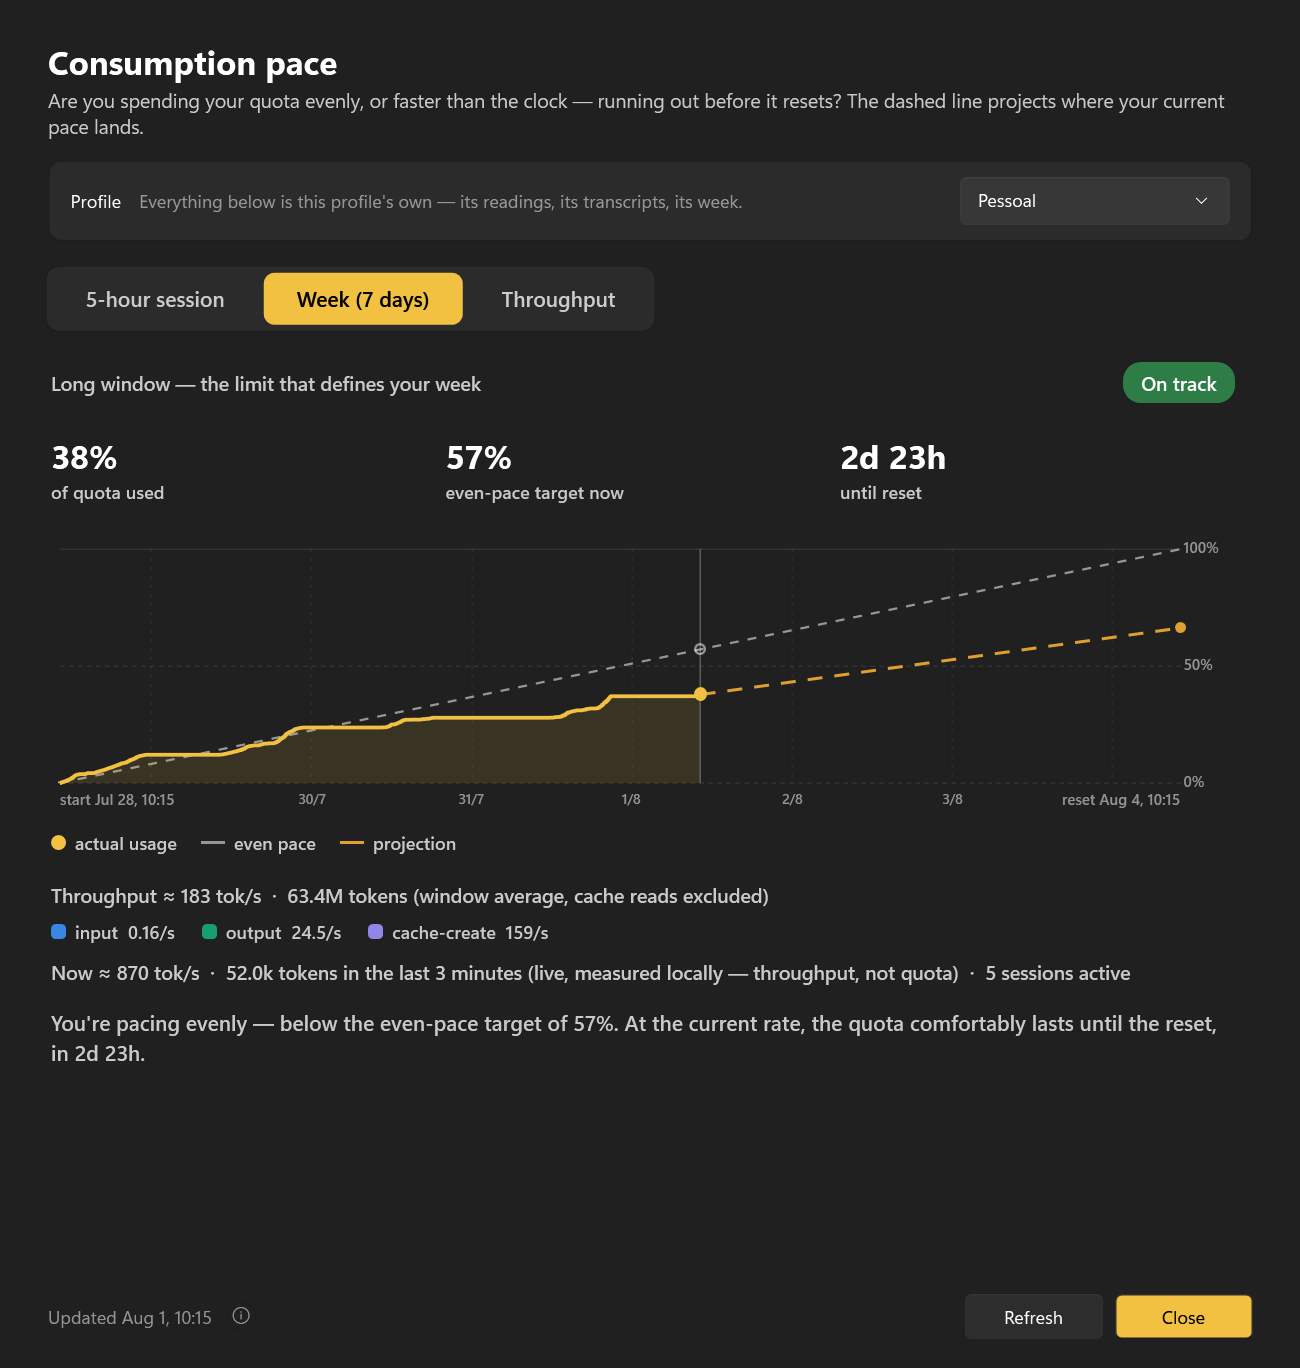
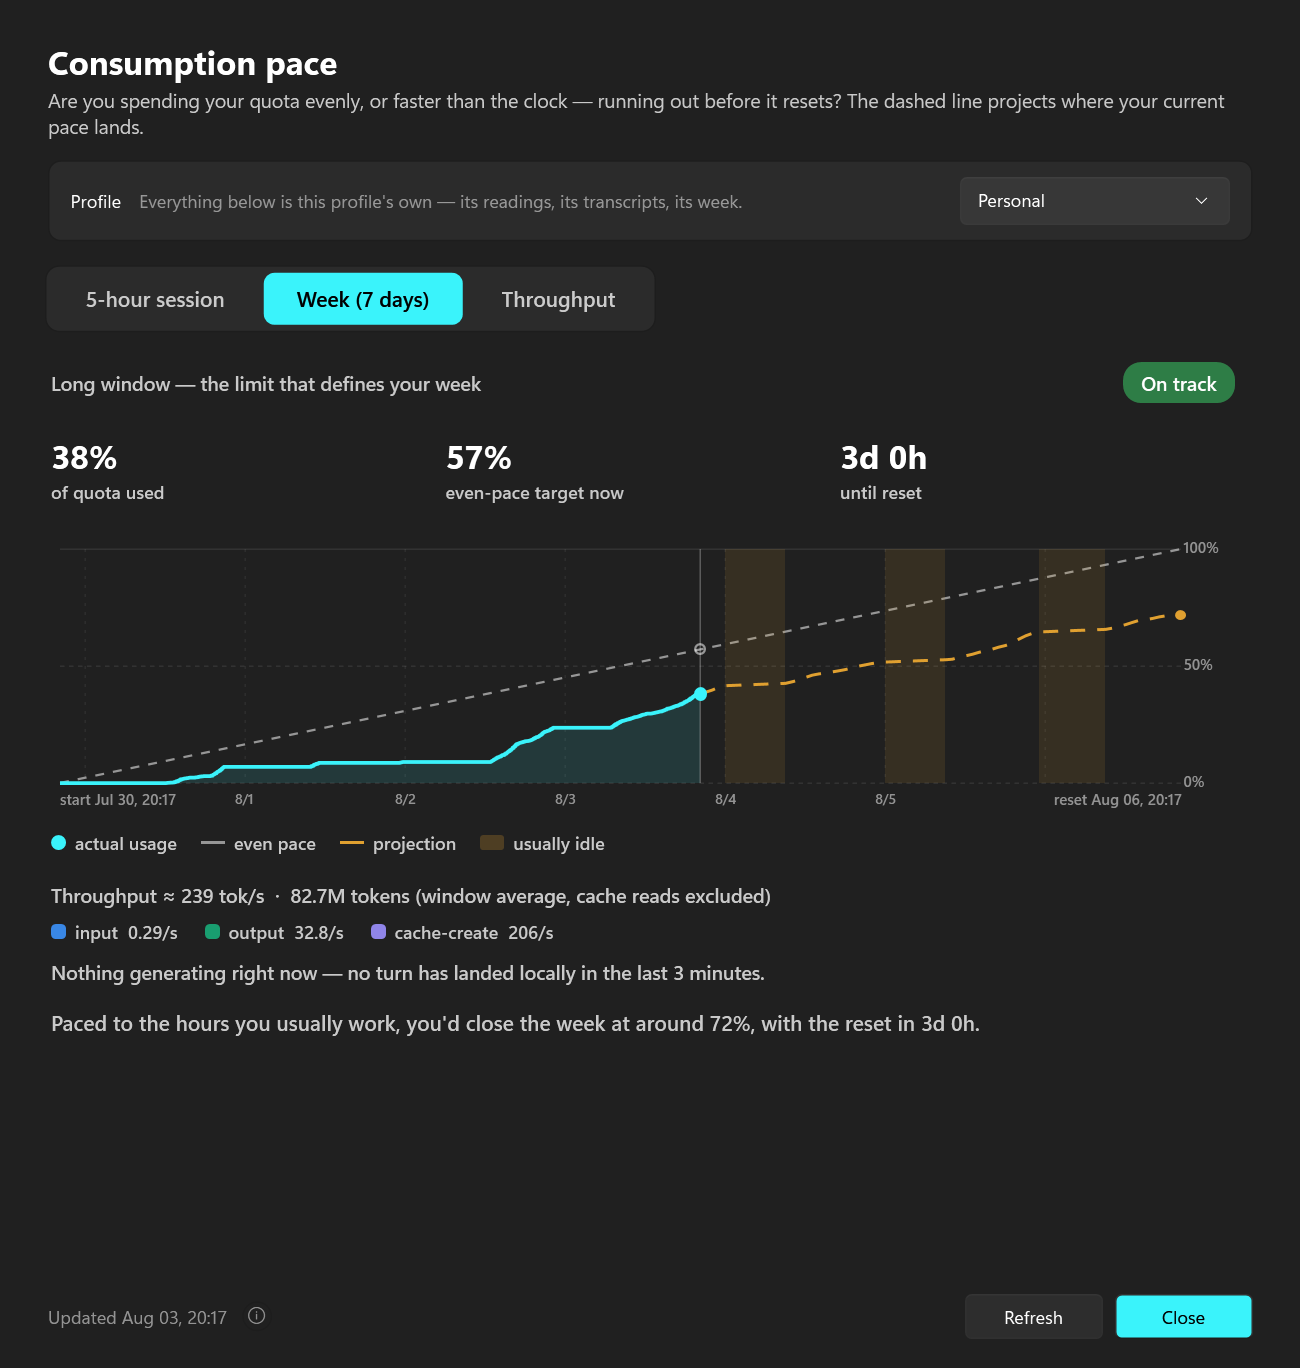
fix: a date takes its field order from the culture, not from a pattern in the source (T263)
- This commit ensures that date formatting respects the cultural order of date fields, addressing a defect where dates were displayed incorrectly in different languages.
- A new `Dates` class has been introduced to handle date formatting, which retrieves the correct order from the culture's `MonthDayPattern` and `ShortDatePattern`.
- The Statistics page has been updated to use the new date formatting methods, ensuring that dates are displayed correctly across all supported languages.
- Screenshots of the statistics have been regenerated to reflect the changes in date formatting, ensuring accurate representation in the documentation.
- The changes were validated against all shipped cultures to confirm that the date order aligns with cultural expectations, preventing any ambiguity in date interpretation.

diff --git a/src/Cli/SelfTestCli.cs b/src/Cli/SelfTestCli.cs
@@ -168,6 +168,9 @@ internal static class SelfTestCli
         Section("map — every source file has a row, and every row a file (Block AJ)");
         FileMap();
 
+        Section("dates — the fields are in the order the culture puts them (Block G)");
+        DateOrder();
+
         Section("names — a page or destination this build does not have is refused (Block AI)");
         PageNames();
 
@@ -2100,6 +2103,76 @@ internal static class SelfTestCli
                               .OrderBy(f => f, StringComparer.Ordinal).ToArray();
         Check("and every folder it names is still there", gone.Length == 0,
               $"{string.Join(", ", gone)} — a placement rule for a folder that no longer exists");
+    }
+
+    /// <summary>
+    /// T263. A date's <b>order</b> comes from the culture, not from a pattern written in the source. It did
+    /// not: <c>"MMM d"</c> rendered <em>"août 3"</em> in French — where all four non-English cultures put
+    /// the day first — and <c>"d/M"</c> rendered <c>3/8</c> to an American, whose short date is <c>M/d</c>,
+    /// on the very chart the published screenshots are of.
+    ///
+    /// <para><b>Asserted against each culture's own patterns</b>, over every language this build ships, so
+    /// a language added later is covered by having been added. The claim is the one §XXX.1 named: whichever
+    /// of day and month comes first in what the page renders is the one that comes first in that culture's
+    /// <c>MonthDayPattern</c> — read off the rendered string by where the two numbers land, which is what
+    /// makes this a check about output rather than about the pattern the code happens to hold.</para>
+    ///
+    /// <para>T167's number sweep cannot reach this and was never meant to: it varies
+    /// <c>CurrentCulture</c> and demands the answer not move, while a date is the one thing that must.</para>
+    /// </summary>
+    private static void DateOrder()
+    {
+        System.Globalization.CultureInfo before = System.Globalization.CultureInfo.CurrentCulture;
+        string beforeLang = L.Codes.FirstOrDefault(c => L.Resolve(c) == L.Current) ?? "en";
+        try
+        {
+            // A day and a month that cannot be confused for each other, or "3/8" and "8/3" read the same.
+            var when = new DateTime(2026, 8, 23, 16, 26, 0);
+            foreach (string code in L.Codes)
+            {
+                L.Apply(code);
+                var culture = L.DateCulture;
+                bool monthFirstInCulture =
+                    culture.DateTimeFormat.MonthDayPattern.IndexOf('M', StringComparison.Ordinal)
+                    < culture.DateTimeFormat.MonthDayPattern.IndexOf('d', StringComparison.Ordinal);
+
+                string named = Dates.MonthDay(when);
+                bool monthFirstAsRendered = named.IndexOf("23", StringComparison.Ordinal) > 0;
+                Check($"{code}: the named month sits where this culture puts it ('{named}')",
+                      monthFirstAsRendered == monthFirstInCulture,
+                      $"culture wants month-first={monthFirstInCulture}, rendered '{named}'");
+
+                string digits = Dates.DayMonthDigits(when);
+                bool monthFirstInShort =
+                    culture.DateTimeFormat.ShortDatePattern.IndexOf('M', StringComparison.Ordinal)
+                    < culture.DateTimeFormat.ShortDatePattern.IndexOf('d', StringComparison.Ordinal);
+                Check($"{code}: and so do the digits ('{digits}')",
+                      digits.StartsWith(monthFirstInShort ? "8" : "23", StringComparison.Ordinal),
+                      $"short date is '{culture.DateTimeFormat.ShortDatePattern}', rendered '{digits}'");
+
+                Check($"{code}: both fields are actually there",
+                      named.Contains("23", StringComparison.Ordinal)
+                      && digits.Contains("23", StringComparison.Ordinal)
+                      && digits.Contains('8', StringComparison.Ordinal), $"'{named}' / '{digits}'");
+            }
+
+            // The precondition: if every shipped culture agreed on the order, the sweep above would pass
+            // over a hardcoded pattern too and prove nothing.
+            string[] orders = L.Codes.Select(c =>
+            {
+                L.Apply(c);
+                return L.DateCulture.DateTimeFormat.MonthDayPattern.IndexOf('M', StringComparison.Ordinal)
+                       < L.DateCulture.DateTimeFormat.MonthDayPattern.IndexOf('d', StringComparison.Ordinal)
+                           ? "month" : "day";
+            }).Distinct(StringComparer.Ordinal).ToArray();
+            Check("the shipped languages disagree about the order — so the sweep above is not vacuous",
+                  orders.Length > 1, $"all of them put the {orders.FirstOrDefault()} first");
+        }
+        finally
+        {
+            L.Apply(beforeLang);
+            System.Globalization.CultureInfo.CurrentCulture = before;
+        }
     }
 
     /// <summary>

diff --git a/src/Core/Dates.cs b/src/Core/Dates.cs
@@ -1,0 +1,60 @@
+using System.Globalization;
+
+namespace ClaudeTray;
+
+/// <summary>
+/// How this app writes a <b>date</b>, which is the other half of <see cref="Nums"/>'s rule: numbers are
+/// invariant, dates follow the display language — and following it means the <em>order</em> too, not only
+/// the words (T263).
+///
+/// <para><b>The defect.</b> Every date on the Statistics page was built from a custom pattern:
+/// <c>"MMM d"</c> and <c>"d/M"</c>. A custom pattern pins the arrangement while the culture supplies only
+/// the month name, so the axis read <em>"début août 3"</em> in French — a French sentence with English word
+/// order inside it, which is worse than not translating at all. Measured over the five shipped cultures:
+/// English's own <c>MonthDayPattern</c> is <c>MMMM d</c> and the other four are <c>d MMMM</c> or
+/// <c>d 'de' MMMM</c>, so four of five were wrong.</para>
+///
+/// <para>And <c>"d/M"</c> was wrong in the other direction, for the one audience the published screenshots
+/// are taken for: it renders <c>3/8</c> in every culture including <c>en-US</c>, whose short date puts the
+/// month first, so the weekly chart's day dividers said 3/8 for 3 August and an American read 8 March.</para>
+///
+/// <para><b>The rule: take the order from the culture, never from a literal.</b> The System page already
+/// did — it formats with the standard <c>d</c> and <c>g</c> specifiers and comes out right in all five.
+/// What is here is the two shapes a standard specifier does not offer: a month and day without the year,
+/// and a compact numeric day and month for an axis label.</para>
+/// </summary>
+internal static class Dates
+{
+    private static CultureInfo C => L.DateCulture;
+
+    /// <summary>
+    /// A month and a day, month named and abbreviated, in the order this culture puts them: "Aug 3",
+    /// "3 août", "3 de ago". Derived from the culture's own <c>MonthDayPattern</c> with the full month
+    /// name narrowed to the short one — an axis label and a status line are both tight, and narrowing a
+    /// pattern keeps the arrangement while a rewritten pattern is what lost it.
+    /// </summary>
+    public static string MonthDay(DateTime local) =>
+        local.ToString(C.DateTimeFormat.MonthDayPattern.Replace("MMMM", "MMM"), C);
+
+    /// <summary>A month and a day with the time after it: "Aug 3, 16:26" / "3 août, 16:26".</summary>
+    public static string MonthDayTime(DateTime local) => MonthDay(local) + ", " + Time(local);
+
+    /// <summary>
+    /// The same two fields as digits, for a label drawn inside a plot where a month name will not fit:
+    /// "8/3" for English, "3/8" for the other four. Order and separator both from the culture — the single
+    /// <c>d</c> and <c>M</c> are deliberate, because <c>03/08</c> is two characters nobody has room for.
+    /// </summary>
+    public static string DayMonthDigits(DateTime local)
+    {
+        string shortDate = C.DateTimeFormat.ShortDatePattern;
+        int m = shortDate.IndexOf('M', StringComparison.Ordinal);
+        int d = shortDate.IndexOf('d', StringComparison.Ordinal);
+        string sep = C.DateTimeFormat.DateSeparator;
+        // A pattern naming neither (nothing shipped does) falls to day-first rather than throwing: the
+        // point of this type is that a date is readable, and an unreadable pattern is not worth a crash.
+        return local.ToString(m >= 0 && (d < 0 || m < d) ? $"M{sep}d" : $"d{sep}M", C);
+    }
+
+    /// <summary>Clock time. No order to get wrong, and named here so a call site has one place to go.</summary>
+    public static string Time(DateTime local) => local.ToString("HH:mm", C);
+}

diff --git a/src/Ui/StatisticsPage.Format.cs b/src/Ui/StatisticsPage.Format.cs
@@ -74,23 +74,24 @@ internal partial class StatisticsPage
         return true;
     }
 
+    // Through Dates, not a pattern written here: a custom pattern pins the ORDER of the fields while the
+    // culture supplies only the words, which is how this line read "début août 3" in French (T263).
     private static string LocalTime(double unix)
     {
         if (unix <= 0) return "—";
-        DateTime local = DateTimeOffset.FromUnixTimeSeconds((long)unix).LocalDateTime;
-        return local.ToString("MMM d, HH:mm", DateFmt);
+        return Dates.MonthDayTime(DateTimeOffset.FromUnixTimeSeconds((long)unix).LocalDateTime);
     }
 
     // Clock time for a label drawn inside the plot, where space is tight: just "18:40" in a window that
     // can't span days (the 5-hour session), with the date prefixed on the multi-day weekly chart — same
-    // "d/M" form as its day dividers — where the time alone wouldn't say which day.
+    // digits form as its day dividers — where the time alone wouldn't say which day.
     private static string ShortTime(double unix, double windowSeconds)
     {
         if (unix <= 0) return "—";
         DateTime local = DateTimeOffset.FromUnixTimeSeconds((long)unix).LocalDateTime;
         return windowSeconds >= 2 * 86400
-            ? local.ToString("d/M HH:mm", DateFmt)
-            : local.ToString("HH:mm", DateFmt);
+            ? Dates.DayMonthDigits(local) + " " + Dates.Time(local)
+            : Dates.Time(local);
     }
 
     // Compact duration, matching the tray tooltip's style: "2d 4h", "3h 20m", "45m", "now".

diff --git a/src/Ui/StatisticsPage.Chart.cs b/src/Ui/StatisticsPage.Chart.cs
@@ -164,9 +164,12 @@ internal partial class StatisticsPage
                 });
                 // Date of the division, centered under its line on the bottom axis — unless it would
                 // overlap the start/reset labels sharing that strip.
-                double dw = MeasureText(day.ToString("d/M", DateFmt), 9);
+                // Measured and drawn from one string, and that string in the culture's own field order:
+                // "d/M" everywhere read 3/8 for 3 August to an American, whose short date is M/d (T263).
+                string dayLabel = Dates.DayMonthDigits(day);
+                double dw = MeasureText(dayLabel, 9);
                 if (x - dw / 2 < startRight + 4 || x + dw / 2 > resetLeft - 4) continue;
-                var dl = new TextBlock { Text = day.ToString("d/M", DateFmt), FontSize = 9, Foreground = axisFg };
+                var dl = new TextBlock { Text = dayLabel, FontSize = 9, Foreground = axisFg };
                 Canvas.SetLeft(dl, x - dw / 2);
                 Canvas.SetTop(dl, top + ph + 4);
                 c.Children.Add(dl);

diff --git a/src/Ui/StatisticsPage.xaml.cs b/src/Ui/StatisticsPage.xaml.cs
@@ -385,7 +385,7 @@ internal partial class StatisticsPage : System.Windows.Controls.UserControl
 
     private void Render(PaceReport r)
     {
-        ComputedText.Text = L.T("stats.updated", r.ComputedLocal.ToString("MMM d, HH:mm", DateFmt));
+        ComputedText.Text = L.T("stats.updated", Dates.MonthDayTime(r.ComputedLocal));
 
         if (r.Error != null)
         {

diff --git a/CHANGELOG.md b/CHANGELOG.md
@@ -23,7 +23,7 @@
 | [D](#block-d--auth--api-resilience) | Auth & API resilience |
 | [E](#block-e--reset-notifications--toasts) | Reset notifications & toasts |
 | [F](#block-f--statistics-window-pace-report) | Statistics window (pace report) |
-| [G](#block-g--localization) | Localization (active — see ROADMAP) |
+| [G](#block-g--localization) | Localization |
 | [H](#block-h--tray-display-options) | Tray display options |
 | [I](#block-i--context-load-inspector) | Context Load Inspector |
 | [J](#block-j--activity-aware-pacing) | Activity-aware pacing |
@@ -138,6 +138,7 @@
 - **T59** — Embedded JSON language resources for five languages: `en`, `pt-BR`, `pt-PT`, `fr`, `es`. (`efd5acf`)
 - **T60** — Language selection in Settings (`auto` = follow the OS) with a restart prompt, since localized strings resolve when a window is parsed. (`304b9ca`)
 - **T216** — Numbers are invariant everywhere and dates follow the display language, stated once in Nums and named into L.DateCulture; the split between chart and prose was refused because one context row carries a size beside a token estimate, so wherever its line fell it cut through a sentence. The format sweep now runs every static formatter on all six surfaces, not twelve on one page.
+- **T263** — A date takes the order of its fields from the culture and not from a pattern in the source, through Dates - the other half of the rule Nums states for numbers. The Statistics axis put the month first in French, where all four non-English cultures put the day first, and its day dividers read 3/8 for 3 August to an American whose short date is month-first, on the chart the published screenshots are of. Checked over every shipped language against that culture own MonthDayPattern and ShortDatePattern, with the precondition that they disagree, so the sweep is not vacuous. The three published stats captures are regenerated.
 
 ## Block H — Tray display options
 

diff --git a/.claude/skills/file-map/SKILL.md b/.claude/skills/file-map/SKILL.md
@@ -96,6 +96,7 @@ One file per flag family; `Main` dispatches, these run and exit.
 | File | Responsibility |
 |---|---|
 | `src/Core/Localization.cs` | The dependency-free `L` / `{local:Loc key}` layer over the embedded `lang\<code>.json` files: language picked from Settings, else the OS UI language, English as the fallback for a missing key. |
+| `src/Core/Dates.cs` | The other half of `Nums`' rule (T263): a date follows the display language, and that means the **order** of its fields and not only the words. A custom pattern pins the order while the culture supplies the month name, which is how an axis read *"début août 3"* in French and `3/8` for 3 August to an American whose short date is `M/d`. `MonthDay` narrows the culture's own `MonthDayPattern`; `DayMonthDigits` takes the order and the separator from its `ShortDatePattern`. The System page needs none of this — standard specifiers (`d`, `g`) already carry the order, and only a year-less date and a plot label do not have one. |
 | `src/Core/Nums.cs` | The app's **only** namer of a culture for a number (T216): `Of` and `Pct`, both invariant, plus the reasoning for why there is one convention rather than a split between charts and prose. Dates are the other half of that rule and go through `L.DateCulture`, which is named for what it may reach. `--selftest`'s `format` section sweeps every static formatter on every surface listed in `Surfaces` against it. |
 | `src/Core/OutFile.cs` | Creating a file a flag was told to write, directory and all (T187) — the rule every capture shares, stated once instead of at each call site. |
 | `src/Core/SampleRoot.cs` | Where a fixture is built: a directory whose path holds no user name (`%PUBLIC%`, temp as fallback), because fixture screenshots get published and an absolute path spells out the Windows account. Shared by `ContextFixture` and `AccountFixture`. |

diff --git a/IMPROVEMENTS.md b/IMPROVEMENTS.md
@@ -264,27 +264,3 @@ what a person reading the output can.
 ## XXX Dates — the words are translated and the order is not (Block G)
 
 What a date reads like once the month name is French and the arrangement is still English.
-
-### XXX.1 August 3, in French
-
-Measured across the five shipped cultures. `MMM d` renders `Aug 3` / `août 3` / `ago 3` / `ago. 3`,
-while their own `MonthDayPattern` is `MMMM d` for English and `d MMMM` or day-de-month for the other
-four. So the month name is localized and the arrangement around it is not, which reads worse than no
-translation at all: it is a sentence in French with English word order in the middle of it.
-
-The day-slash-month pattern is the same defect pointing the other way. It renders `3/8` in every
-culture including `en-US`, whose short date puts the month first - so the weekly chart's day
-dividers and its short axis labels say `3/8` for 3 August to the one audience the published
-screenshots are taken for, and an American reads 8 March.
-
-Five call sites, all in the Statistics page: `LocalTime` and `ShortTime` in `.Format.cs`, the two
-day dividers in `.Chart.cs`, and the updated line in `.xaml.cs`. The fix is not a new format string
-but taking the order from the culture the way the System page already does - it formats with the
-standard `d` and `g` specifiers and comes out right in all five. A custom pattern is what pins the
-order.
-
-Nothing catches it today and the reason is worth stating: T167's sweep varies `CurrentCulture` and
-compares, and dates deliberately name `DateFmt` so they are *expected* to differ - the sweep is
-about numbers. The property a check could hold is narrower and real: whichever of day and month
-comes first in what the page renders should be the one that comes first in that culture's own
-`MonthDayPattern`.

diff --git a/ROADMAP.md b/ROADMAP.md
@@ -67,8 +67,6 @@
 
 ## Block G — Localization
 
-- 📋 **T263** (deps: —) **The month name is translated and the order around it is not, so a French axis reads August 3** — The month-day pattern puts the month first in French and Portuguese, where all four non-English cultures want the day first, and the numeric one renders 3/8 to an American reader. → §XXX.1
-
 ## Block D — Auth & API resilience
 
 ## Block N — System information — your plan, your install, this machine
